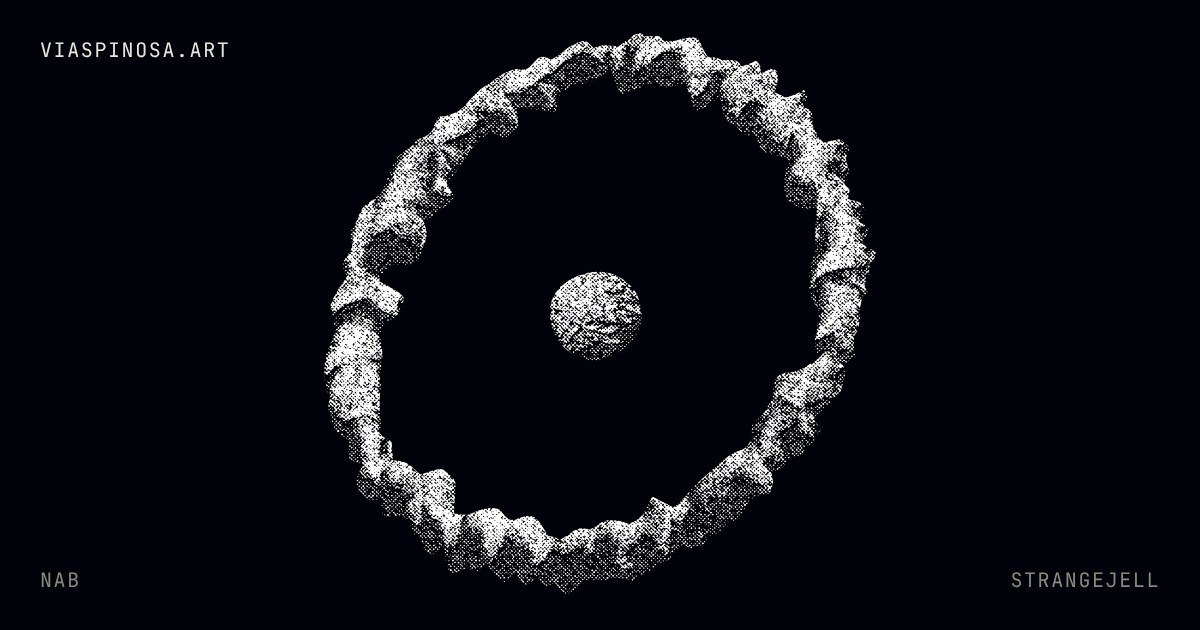
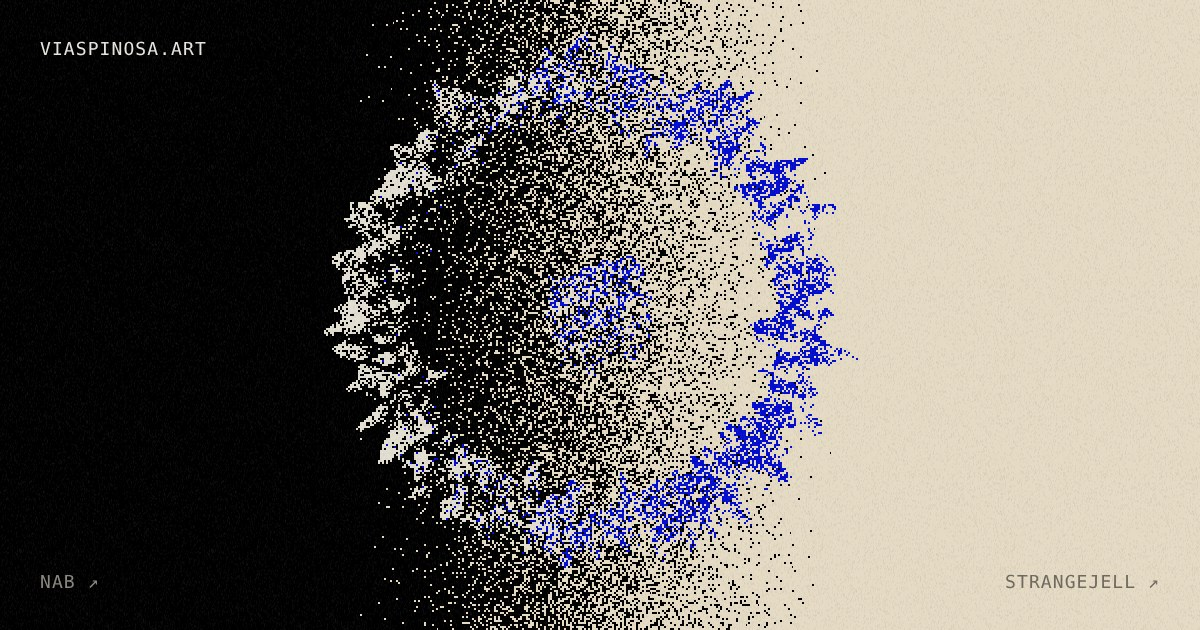
Прелоадер ночь/день: переход зерном, мягкое зерно поверх сайта, новое превью ссылки
Claude-Session: https://claude.ai/code/session_01QWCvieWdtWv8gVBV7dL5ou

diff --git a/index.html b/index.html
@@ -5,7 +5,8 @@
 <meta name="viewport" content="width=device-width, initial-scale=1">
 <title>viaspinosa.art</title>
 <meta name="description" content="Nab и strangejell: пиар, картинки, анимация и маленькие системы.">
-<meta name="theme-color" content="#00030a">
+<meta name="theme-color" content="#00030a" media="(prefers-color-scheme: dark)">
+<meta name="theme-color" content="#f3eee3" media="(prefers-color-scheme: light)">
 <link rel="icon" href="/favicon.svg" type="image/svg+xml">
 <link rel="icon" href="/favicon.ico" sizes="any">
 <link rel="apple-touch-icon" href="/apple-touch-icon.png">
@@ -17,21 +18,25 @@
 <meta property="og:image" content="https://viaspinosa.art/og.jpg">
 <meta property="og:image:width" content="1200">
 <meta property="og:image:height" content="630">
-<meta property="og:image:alt" content="Зернистое кольцо вокруг шара на чёрном фоне">
+<meta property="og:image:alt" content="Зернистое кольцо вокруг шара: левая половина ночная, правая дневная">
 <meta name="twitter:card" content="summary_large_image">
+<link rel="stylesheet" href="/assets/grain.css">
 <style>
   html, body { margin: 0; height: 100%; background: #00030a; color: #e9e6df; font: 16px/1.5 system-ui, sans-serif; }
   #page { min-height: 100%; display: flex; align-items: center; justify-content: center; flex-direction: column; gap: 16px; }
   #page h1 { font: 400 40px/1.1 Georgia, serif; margin: 0; }
   #page button { background: none; color: inherit; border: 1px solid #e9e6df55; border-radius: 99px; padding: 8px 16px; cursor: pointer; font: inherit; }
-  #preloader { position: fixed; inset: 0; z-index: 10; background: #00030a; transition: opacity .6s ease; }
+  #preloader { position: fixed; inset: 0; z-index: 10; transition: opacity .6s ease; }
   #preloader canvas { display: block; width: 100%; height: 100%; }
   #preloader.done { opacity: 0; pointer-events: none; }
   .corner { position: fixed; z-index: 15; font: 400 11px/1.4 "JetBrains Mono", ui-monospace, monospace; letter-spacing: .06em; text-transform: uppercase; color: #8b8880; }
   .corner b { font-weight: 400; color: #e9e6df; }
+  .corner.day { color: #6f6a5f; } .corner.day b, .corner.day a:hover { color: #1c1a16; }
+  body { background: linear-gradient(90deg, #00030a 35%, #f3eee3 65%); }
+  @media (max-aspect-ratio: 1/1) { body { background: linear-gradient(180deg, #00030a 35%, #f3eee3 65%); } .corner.day.top { color: #8b8880; } .corner.day.top b { color: #e9e6df; } .corner.night.bottom { color: #6f6a5f; } }
   .corner a { color: inherit; text-decoration: none; } .corner a:hover { color: #e9e6df; }
-  #preloader { background: #00030a url(sun.jpg) center / min(70vmin, 640px) no-repeat; }
-  #preloader canvas { position: relative; background: #00030a; opacity: 0; }
+  #preloader { background: url(sun.jpg) center / min(70vmin, 640px) no-repeat; }
+  #preloader canvas { position: relative; opacity: 0; }
   #preloader.live canvas { opacity: 1; }
   #preloader.static canvas { display: none; }
 </style>
@@ -39,11 +44,12 @@
 <body>
 
 
-<div class="corner" style="left:20px;top:20px"><b>viaspinosa.art</b></div>
-<div class="corner" style="right:20px;top:20px">скоро</div>
-<div class="corner" style="left:20px;bottom:20px"><a href="https://t.me/spottedword">nab ↗</a></div>
-<div class="corner" style="right:20px;bottom:20px"><a href="https://t.me/strangejell_stuff">strangejell ↗</a></div>
+<div class="corner night top" style="left:20px;top:20px"><b>viaspinosa.art</b></div>
+<div class="corner day top" style="right:20px;top:20px">скоро</div>
+<div class="corner night bottom" style="left:20px;bottom:20px"><a href="https://t.me/spottedword">nab ↗</a></div>
+<div class="corner day bottom" style="right:20px;bottom:20px"><a href="https://t.me/strangejell_stuff">strangejell ↗</a></div>
 <div id="preloader"><canvas id="c"></canvas></div>
+<div class="grain" aria-hidden="true"></div>
 
 
 <script type="module">
@@ -52,6 +58,9 @@ import * as THREE from "./vendor/three.module.min.js";
 /* ---------- параметры ---------- */
 const BG = new THREE.Color(0x00030a);
 const FG = new THREE.Color(0xf2f0ea);
+// дневная половина (Лиза): временные цвета из наброска
+const BG2 = new THREE.Color(0xf3eee3);
+const FG2 = new THREE.Color(0x2340e8);
 const P = { px: 2, contrast: 1.2, lump: 1.75, speed: 0.55, tilt: -0.34 };
 const LOOP = true;
 const MIN_SHOW = 2600;          // минимум показа, мс
@@ -131,18 +140,24 @@ const rim = new THREE.DirectionalLight(0xffffff, .7); rim.position.set(4, -2, -3
 const rt = new THREE.WebGLRenderTarget(1, 1, { magFilter: THREE.NearestFilter, minFilter: THREE.NearestFilter });
 const post = new THREE.ShaderMaterial({
   uniforms: { tex: { value: rt.texture }, res: { value: new THREE.Vector2() }, px: { value: P.px },
-              contrast: { value: P.contrast }, bg: { value: BG }, fg: { value: FG }, seed: { value: 0 } },
+              contrast: { value: P.contrast }, bg: { value: BG }, fg: { value: FG }, bg2: { value: BG2 }, fg2: { value: FG2 }, vert: { value: 0 }, seed: { value: 0 } },
   vertexShader: `varying vec2 vUv; void main(){ vUv = uv; gl_Position = vec4(position.xy, 0., 1.); }`,
   fragmentShader: `
-    uniform sampler2D tex; uniform vec2 res; uniform float px, contrast, seed; uniform vec3 bg, fg; varying vec2 vUv;
+    uniform sampler2D tex; uniform vec2 res; uniform float px, contrast, seed, vert; uniform vec3 bg, fg, bg2, fg2; varying vec2 vUv;
     float hash(vec2 p){ return fract(sin(dot(p + seed*17.13, vec2(12.9898, 78.233))) * 43758.5453); }
+    float hash2(vec2 p){ return fract(sin(dot(p + seed*7.31, vec2(39.3468, 11.135))) * 24634.6345); }
     void main(){
       vec2 cell = floor(gl_FragCoord.xy / px);
       vec2 uv = (cell + .5) * px / res;
       float l = dot(texture2D(tex, uv).rgb, vec3(.299,.587,.114));
       l = clamp(pow(l, 1.15) * contrast, 0., 1.);
       float on = (l > .02) ? step(hash(cell), l) : 0.;
-      gl_FragColor = vec4(mix(bg, fg, on), 1.);
+      // ночь → день: слева направо, на вертикальном экране сверху вниз; переход тем же зерном
+      float t = mix(gl_FragCoord.x / res.x, 1. - gl_FragCoord.y / res.y, vert);
+      float s = smoothstep(.3, .7, t);
+      float day = s <= 0. ? 0. : (s >= 1. ? 1. : step(hash2(cell), s));
+      vec3 B = mix(bg, bg2, day), F = mix(fg, fg2, day);
+      gl_FragColor = vec4(mix(B, F, on), 1.);
     }`
 });
 const postScene = new THREE.Scene();
@@ -153,8 +168,8 @@ function resize() {
   const w = innerWidth, h = innerHeight, dpr = Math.min(devicePixelRatio, 2);
   renderer.setPixelRatio(dpr); renderer.setSize(w, h, false);
   rt.setSize(w*dpr, h*dpr); post.uniforms.res.value.set(w*dpr, h*dpr);
-  camera.aspect = w / h;
-  camera.position.z = w < h ? 7.2 * Math.min(1.7, h / w * .8) : 7.2;  // на телефоне кольцо целиком
+  camera.aspect = w / h; post.uniforms.vert.value = w < h ? 1 : 0;
+  camera.position.z = w < h ? 7.2 * Math.min(2.2, h / w) : 7.2;  // на телефоне кольцо целиком
   camera.updateProjectionMatrix();
 }
 addEventListener("resize", resize); resize();

diff --git a/assets/grain.css b/assets/grain.css
@@ -1,0 +1,19 @@
+/* Мягкое зерно поверх всего сайта. Подключать на каждой странице:
+   <link rel="stylesheet" href="/assets/grain.css"> и <div class="grain" aria-hidden="true"></div> в конце body */
+.grain {
+  position: fixed; inset: -50%; width: 200%; height: 200%;
+  z-index: 9999; pointer-events: none;
+  background: url(/assets/grain.png) repeat;
+  opacity: var(--grain-opacity, .3);
+  animation: grain-shift 2.4s steps(6) infinite;
+}
+@keyframes grain-shift {
+  0%   { transform: translate(0, 0); }
+  17%  { transform: translate(-7%, 3%); }
+  33%  { transform: translate(4%, -6%); }
+  50%  { transform: translate(-3%, 8%); }
+  67%  { transform: translate(8%, 2%); }
+  83%  { transform: translate(-5%, -4%); }
+  100% { transform: translate(0, 0); }
+}
+@media (prefers-reduced-motion: reduce) { .grain { animation: none; } }
